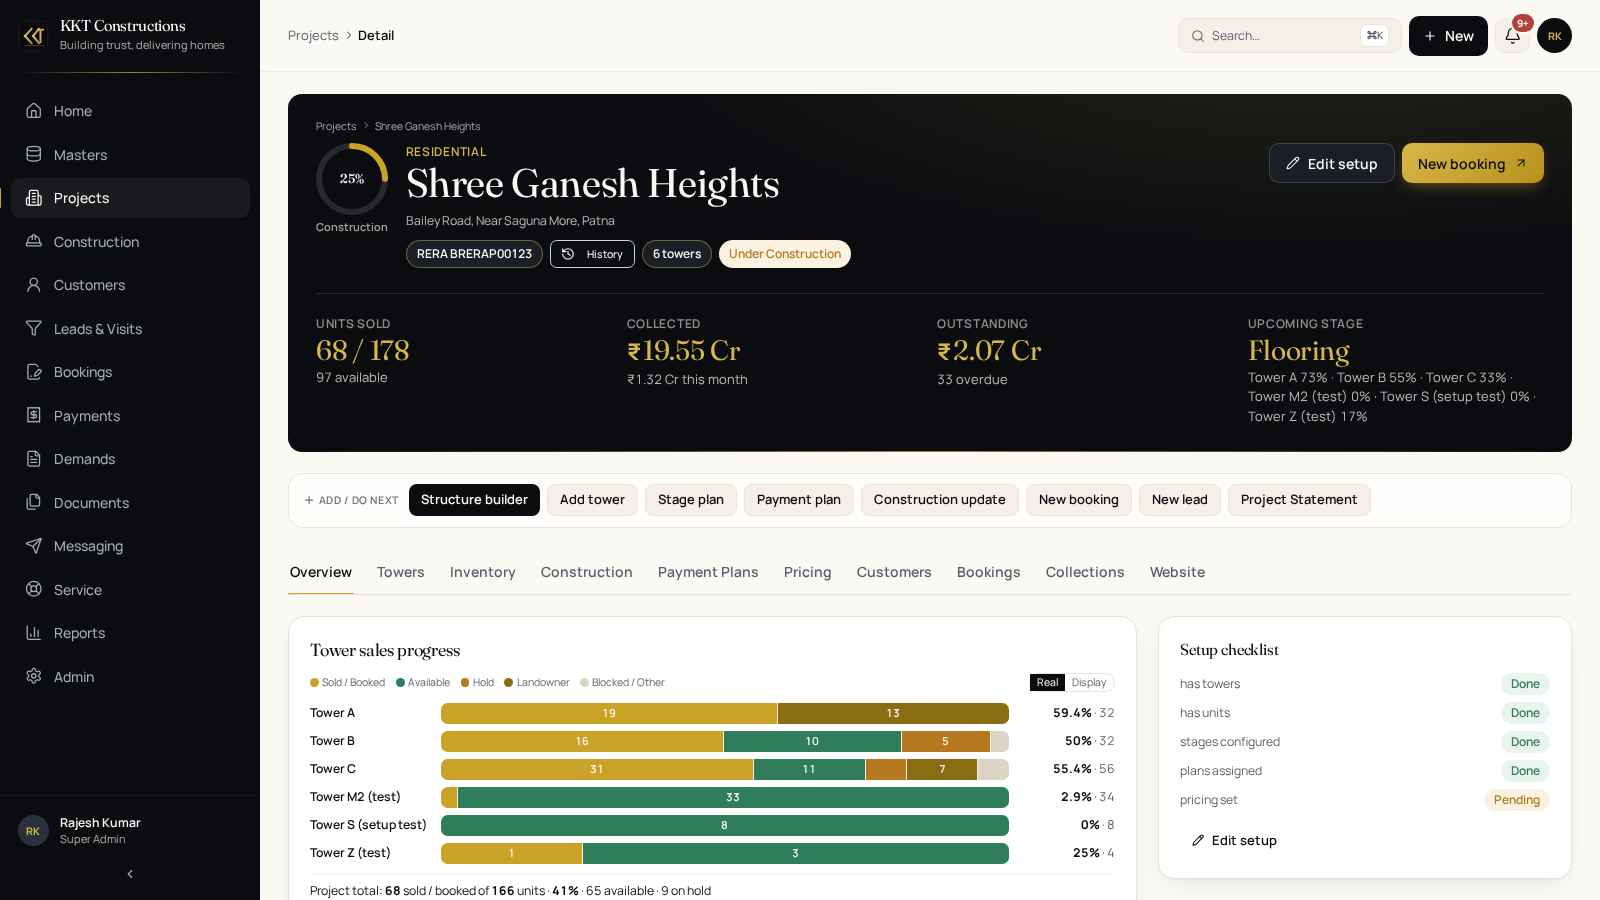
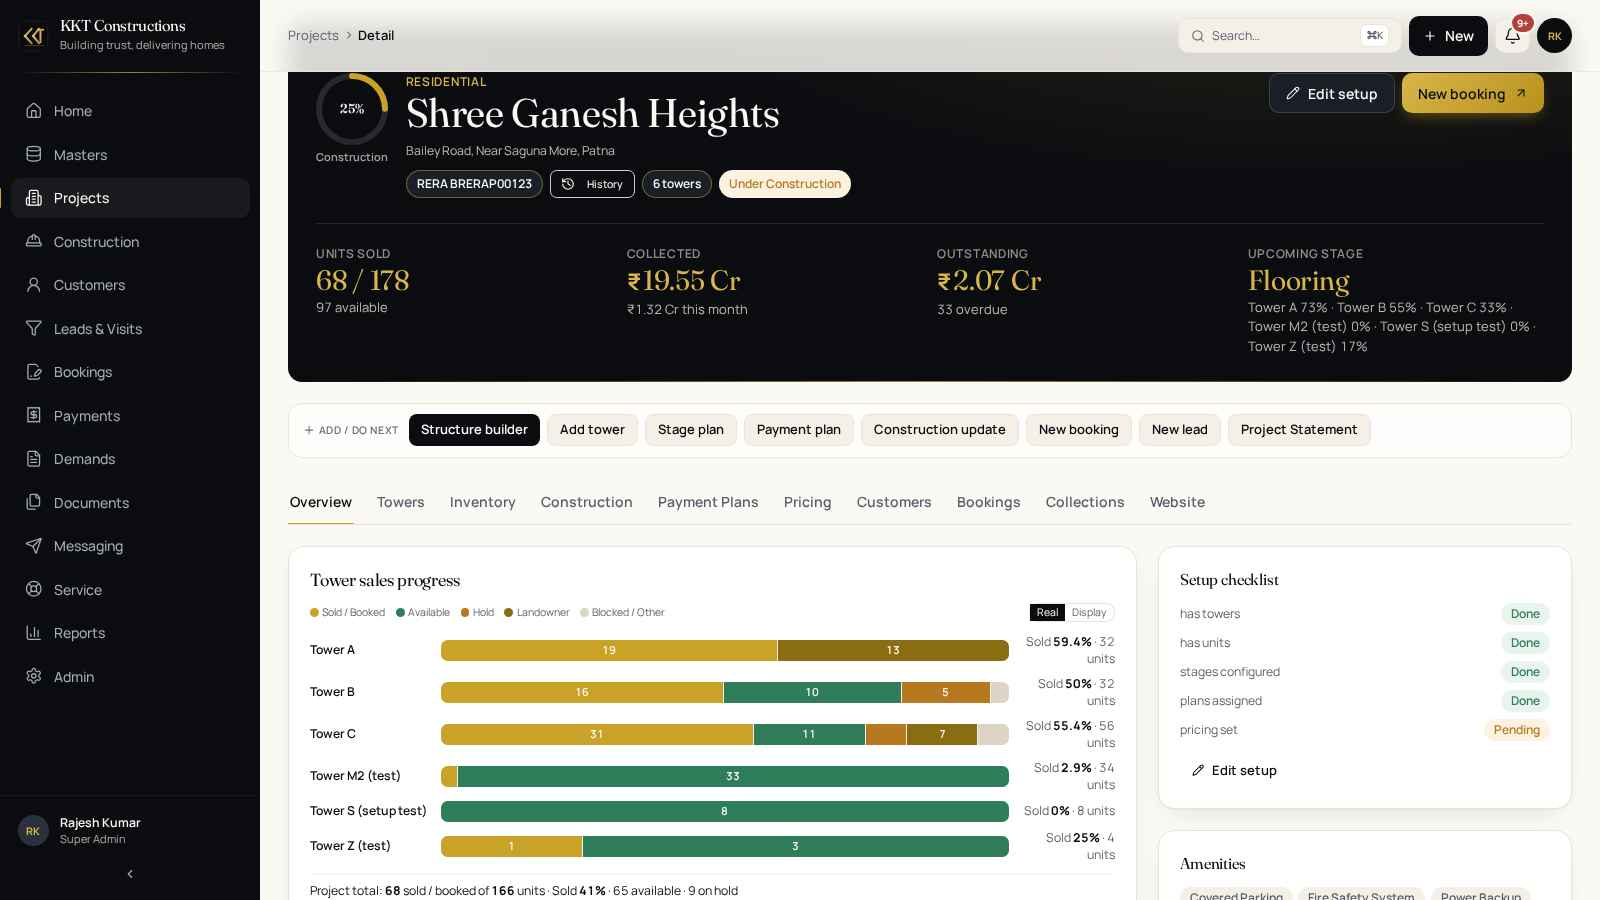
Y.1: Sold % label column no-wrap; refreshed Phase Y screenshots

Changed region(s): [[0.1562, 0.0311, 1.0, 0.5911], [0.1875, 0.6222, 0.9688, 1.0]]

diff --git a/frontend/src/components/common/TowerSalesChart.jsx b/frontend/src/components/common/TowerSalesChart.jsx
@@ -9,13 +9,13 @@ const CAT = { sold: ["Sold / Booked", UNIT_COLORS.Sold, "Booked"], available: ["
 function Row({ r, cats, projectId }) {
   const total = r.total || 1;
   return (
-    <div className="grid grid-cols-[120px_1fr_96px] items-center gap-3 text-sm" data-testid={`tower-sales-row-${r.code}`}>
+    <div className="grid grid-cols-[120px_1fr_150px] items-center gap-3 text-sm" data-testid={`tower-sales-row-${r.code}`}>
       <Link to={`/blocks/${r.block_id}`} className="truncate font-semibold text-ink-950 hover:text-gold">{r.tower}</Link>
       <div className="flex h-6 w-full gap-px overflow-hidden rounded-md bg-warm-100">
         {cats.filter((c) => r[c]).map((c) => (
           <Link key={c} to={`/flats?project_id=${projectId}&block_id=${r.block_id}&status=${CAT[c][2]}`} style={{ width: `${(r[c] / total) * 100}%`, background: CAT[c][1] }} className="flex items-center justify-center text-[11px] font-semibold text-white/95 transition-opacity hover:opacity-80" title={`${CAT[c][0]}: ${r[c]}`} data-testid={`tower-sales-seg-${r.code}-${c}`}>{r[c] / total > 0.08 ? r[c] : ""}</Link>))}
       </div>
-      <span className="text-right tabular-nums text-txt-secondary" data-testid={`tower-sales-pct-${r.code}`}>Sold <b className="text-ink-950">{r.sold_pct}%</b> · {r.total} units</span>
+      <span className="whitespace-nowrap text-right tabular-nums text-txt-secondary" data-testid={`tower-sales-pct-${r.code}`}>Sold <b className="text-ink-950">{r.sold_pct}%</b> · {r.total} units</span>
     </div>
   );
 }
